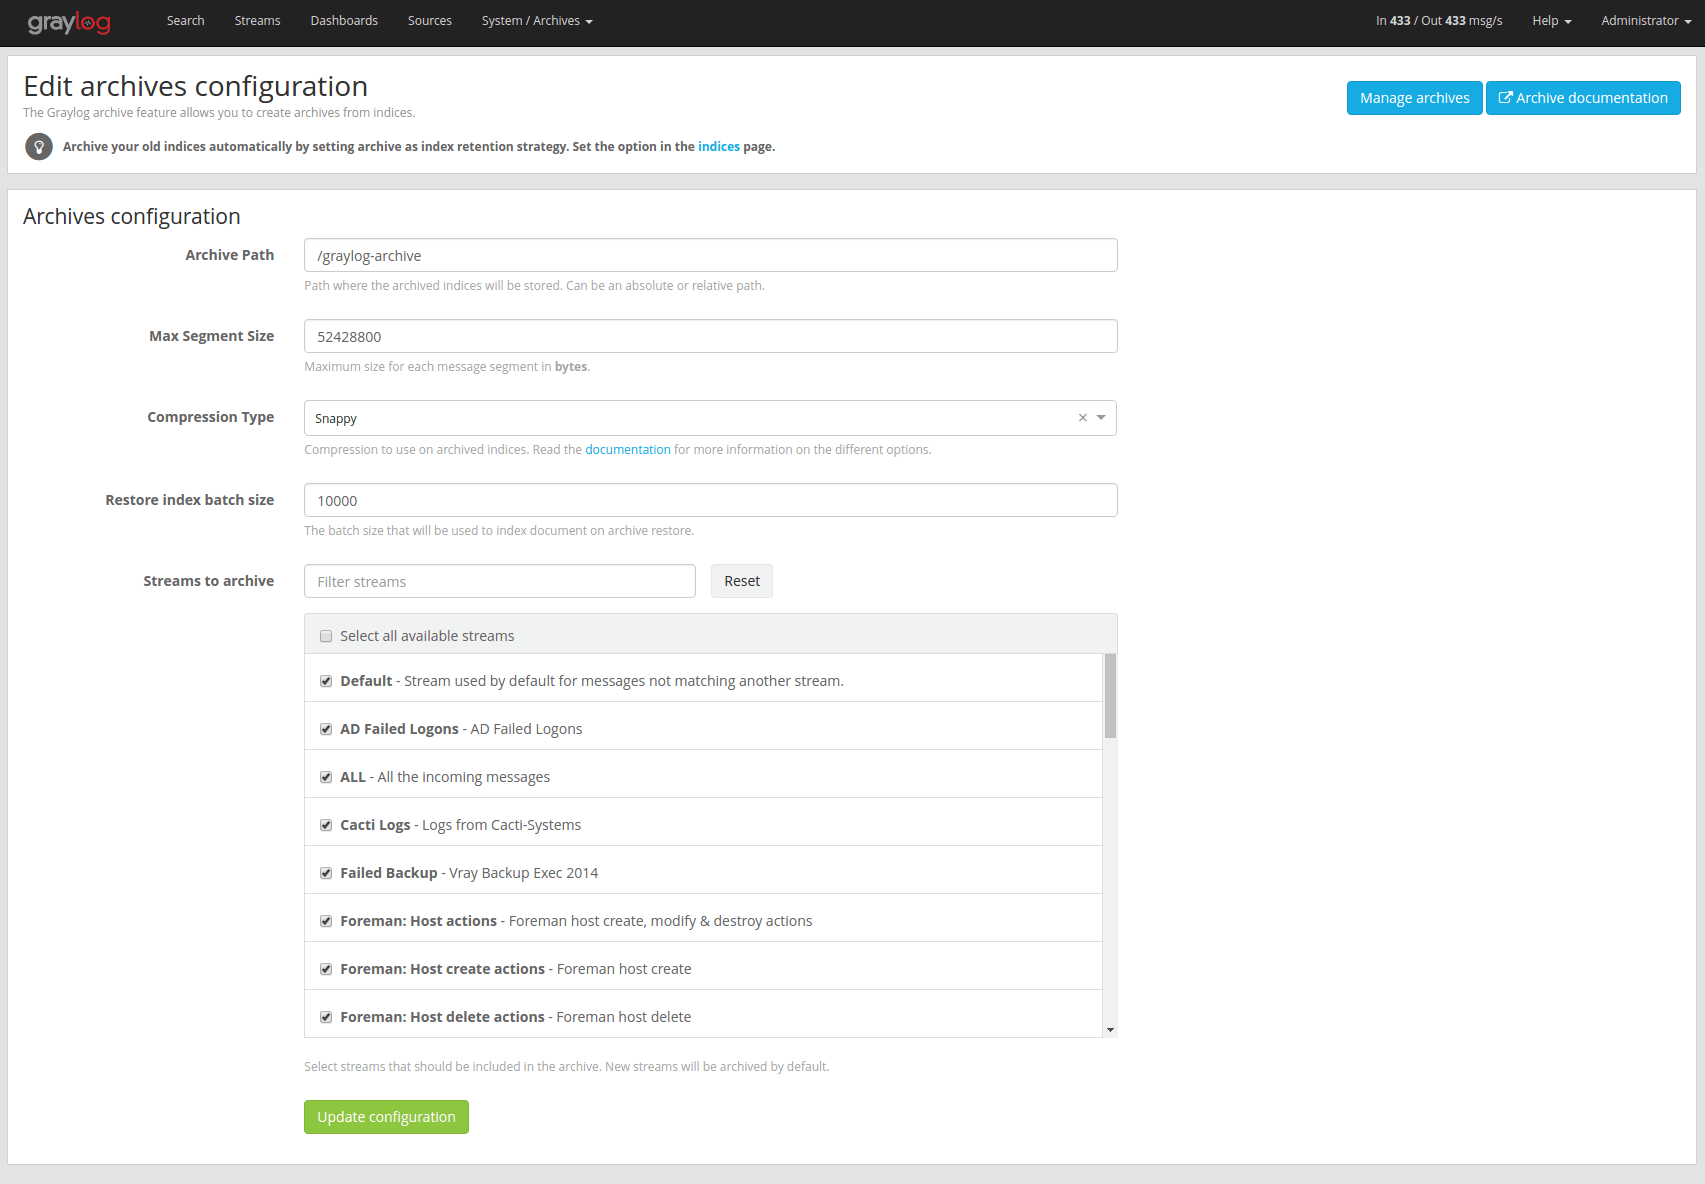
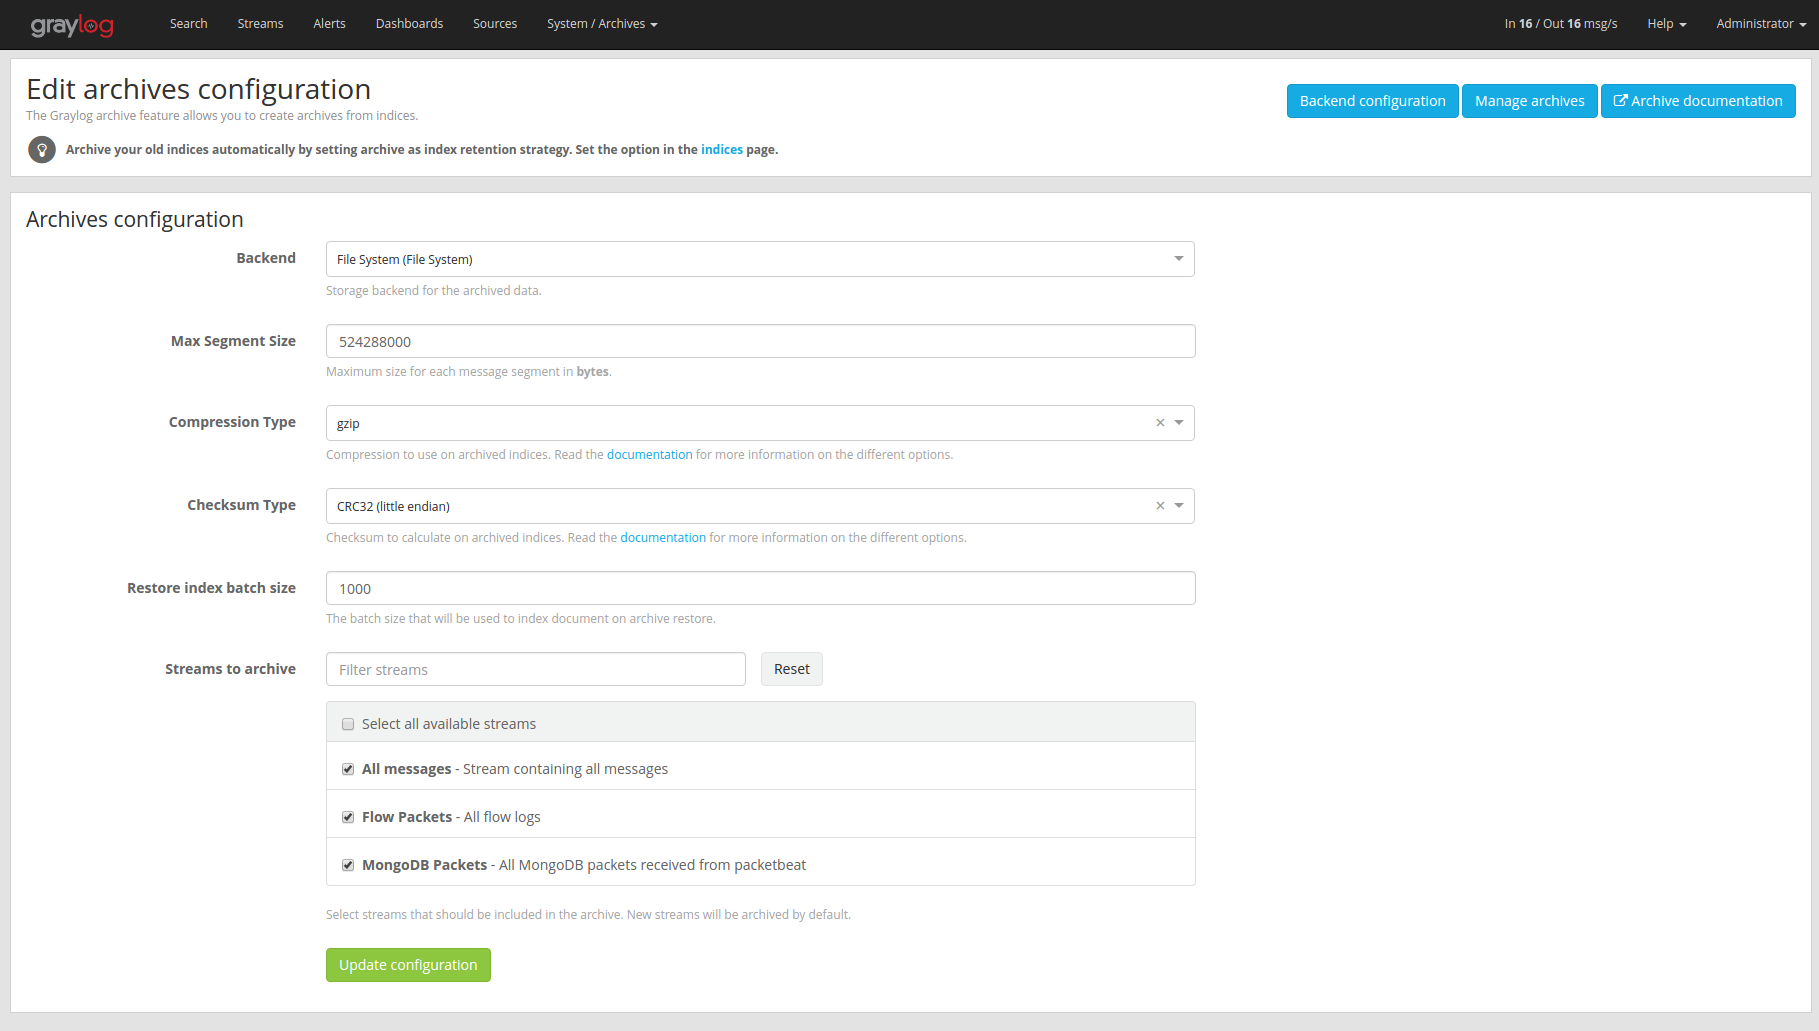
Adjust archive setup to changes in 2.2.3

diff --git a/pages/archiving/setup.rst b/pages/archiving/setup.rst
@@ -33,12 +33,14 @@ There are several configuration options to configure the archive plugin.
 
     * - Name
       - Description
-    * - Archive Path
-      - Directory on the **master** node where the archive files will be stored.
+    * - Backend
+      - Backend on the **master** node where the archive files will be stored.
     * - Max Segment Size
       - Maximum size (in *bytes*) of archive segment files.
     * - Compression Type
       - Compression type that will be used to compress the archives.
+    * - Checksum Type
+      - Checksum algorithm that is used to calculate the checksum for archives.
     * - Restore index batch size
       - Elasticsearch batch size when restoring archive files.
     * - Streams to archive
@@ -46,18 +48,12 @@ There are several configuration options to configure the archive plugin.
 
 .. _archive-config-option-archive-path:
 
-Archive Path
-^^^^^^^^^^^^
+Backend
+^^^^^^^
 
-The archived indices will be stored in the *Archive Path* directory. This
-directory **needs to be writable for the Graylog server process** so the files
-can be stored.
-
-.. note:: Only the **master** node needs access to the *Archive Path* directory because the archiving process runs on the master node.
-
-We recommend to put the *Archive Path* directory onto a **separate disk or partition** to avoid
-any negative impact on the message processing should the archiving fill up
-the disk.
+The archived indices will be stored in a backend. A backend that stores the data in ``/tmp/graylog-archive`` is created
+when the server starts for the first time but you can create a new backend if you want to store the data in a different
+path.
 
 Max Segment Size
 ^^^^^^^^^^^^^^^^^
@@ -129,7 +125,6 @@ Graylog also supports using SHA-1 or SHA-256 checksums which can be used to make
 
 The best choice of checksum types depends on whether the necessary system tools are installed to compute them later (not all systems come with a SHA-256 utility for example), speed of checksum calculation for larger files as well as the security considerations.
 
-
 .. _archive-config-option-restore-batch-size:
 
 Restore Index Batch Size
@@ -161,6 +156,77 @@ of archiving everything that is arriving in Graylog.
           and don't want it to be archived, you have to disable it in this
           configuration dialog.
 
+.. _archive-config-backends:
+
+Backends
+--------
+
+A backend can be used to store the archived data. For now, we only support a single file system backend type.
+
+File System
+^^^^^^^^^^^
+
+The archived indices will be stored in the *Output base path* directory. This
+directory **needs to be writable for the Graylog server process** so the files
+can be stored.
+
+.. note:: Only the **master** node needs access to the *Output base path* directory because the archiving process runs on the master node.
+
+We recommend to put the *Output base path* directory onto a **separate disk or partition** to avoid
+any negative impact on the message processing should the archiving fill up
+the disk.
+
+.. image:: /images/archiving-setup-backend-new.png
+
+.. list-table:: Configuration Options
+    :header-rows: 1
+    :widths: 7 20
+
+    * - Name
+      - Description
+    * - Title
+      - A simple title to identify the backend.
+    * - Description
+      - Longer description for the backend.
+    * - Output base path
+      - Directory path where the archive files should be stored.
+
+**Output base path**
+
+The output base path can either be a simple directory path string or a template string to build dynamic paths.
+
+You could use a template string to store the archive data in a directory tree that is based on the archival date.
+
+Example::
+
+    # Template
+    /data/graylog-archive/${year}/${month}/${day}
+
+    # Result
+    /data/graylog-archive/2017/04/01/graylog_0
+
+.. list-table:: Available Template Variables
+    :header-rows: 1
+    :widths: 7 20
+
+    * - Name
+      - Description
+    * - ``${year}``
+      - Archival date year. (e.g. "2017")
+    * - ``${month}``
+      - Archival date month. (e.g "04")
+    * - ``${day}``
+      - Archival date day. (e.g. "01")
+    * - ``${hour}``
+      - Archival date hour. (e.g. "23")
+    * - ``${minute}``
+      - Archival date minute. (e.g. "24")
+    * - ``${second}``
+      - Archival date second. (e.g. "59")
+    * - ``${index-name}``
+      - Name of the archived index. (e.g. "graylog_0")
+
+
 .. _archive-config-index-retention:
 
 Index Retention
@@ -174,14 +240,14 @@ The archive plugin offers a new index retention strategy that you can configure
 to automatically archive an index before closing or deleting it.
 
 Index retention strategies can be configured in the system menu under
-"System/Indices". Click "Update configuration" to change the index rotation
+"System/Indices". Select an index set and click "Edit" to change the index rotation
 and retention strategies.
 
 .. image:: /images/archiving-setup-index-retention-config.png
 
 As with the regular index retention strategies, you can configure a max
 number of Elasticsearch indices. Once there are more indices than the
-configured limit, the oldest ones will be archived to the *Archive Path* and
+configured limit, the oldest ones will be archived into the backend and
 then closed or deleted. You can also decide to not do anything (*NONE*) after
 archiving an index. In that case **no cleanup of old indices will happen**
 and you have to take care of that yourself!
